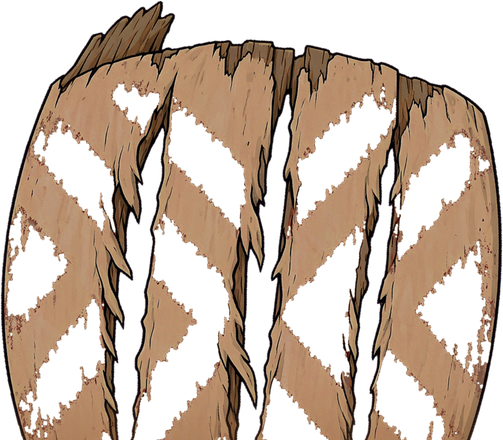
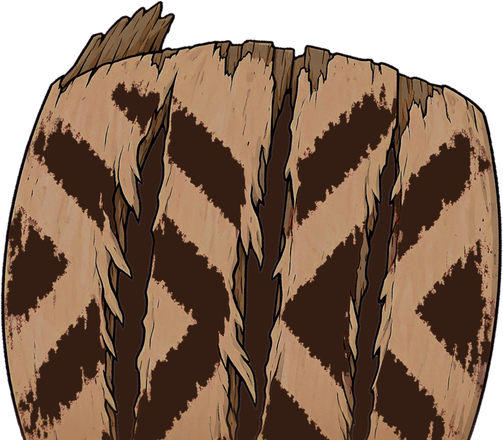
Klauwenschild weer massief: het weggeknipte motief dichtgeverfd
In de bron was het donkere X-motief van het klauwenschild bij het
vrijstaand maken met de achtergrond weggeknipt, zodat je in het spel de
grond door het schild zag. tools/schilden.py verft nu wat binnen de omtrek
ligt en toch leeg is donkerbruin, onder het plaatje, zodat de rafelranden
van het motief blijven staan. De onderrand wordt eerst dichtgezet, anders
loopt de vulling er onderlangs in.

Claude-Session: https://claude.ai/code/session_01ENZubEVdWG6zZtv7T5metY

diff --git a/tools/schilden.py b/tools/schilden.py
@@ -6,6 +6,12 @@ zie schilden.json in de zip). Op een groot scherm is dat hooguit zo'n 250 px, du
 bronrijen is ruim. De ingegraven versies (scheef, onderrand = grondlijn) gaan naar
 design/schilden/; de hele, rechte versies laten we voorlopig in de zip.
 
+Bij het klauwenschild is het donkere X-motief bij het vrijstaand maken met de
+achtergrond weggeknipt: die vlakken zijn doorzichtig en dan zie je de grond door het
+schild. Wat binnen de omtrek ligt en toch leeg is, krijgt daarom donkerbruine verf
+(VERF). De ruimte tussen de klauwscheuren is aan de bovenrand ingesloten en wordt dus
+ook donker; op spelmaat valt dat niet op.
+
 Vereist Pillow: pip install pillow
 """
 import io
@@ -14,7 +20,7 @@ import sys
 import zipfile
 
 try:
-    from PIL import Image
+    from PIL import Image, ImageDraw, ImageFilter
 except ImportError:
     sys.exit('Pillow ontbreekt: pip install pillow')
 
@@ -23,11 +29,33 @@ ZIP = os.path.join(ROOT, 'schilden_hires.zip')
 UIT = os.path.join(ROOT, 'design', 'schilden')
 HOOG = 440
 NAMEN = ['schild_1_gespleten', 'schild_2_klauwen', 'schild_3_verbrand']
+VULLEN = ['schild_2_klauwen']
+VERF = (52, 30, 20, 255)
+
+
+def vul_motief(im):
+    """Ingesloten lege vlakken binnen het schild dichtverven, onder het plaatje."""
+    w, h = im.size
+    vast = im.getchannel('A').point(lambda v: 255 if v > 100 else 0)
+    # de onderrand is recht afgesneden: dicht tussen de buitenste vaste pixels,
+    # anders loopt de vulling van buiten onderlangs het schild in
+    xs = [x for x in range(w) if vast.getpixel((x, h - 1))]
+    if xs:
+        ImageDraw.Draw(vast).line([(xs[0], h - 1), (xs[-1], h - 1)], fill=255)
+    ImageDraw.floodfill(vast, (0, 0), 128)                 # alles wat met buiten verbonden is
+    motief = vast.point(lambda v: 255 if v == 0 else 0)    # leeg en ingesloten
+    motief = motief.filter(ImageFilter.MaxFilter(5))       # tot onder de rafelige randen
+    uit = Image.new('RGBA', (w, h), (0, 0, 0, 0))
+    uit.paste(VERF, (0, 0), motief)
+    uit.alpha_composite(im)
+    return uit
 
 os.makedirs(UIT, exist_ok=True)
 with zipfile.ZipFile(ZIP) as z:
     for n in NAMEN:
         im = Image.open(io.BytesIO(z.read('schilden_hires/' + n + '.png'))).convert('RGBA')
+        if n in VULLEN:
+            im = vul_motief(im)
         w = round(im.width * HOOG / im.height)
         im.resize((w, HOOG), Image.LANCZOS).save(os.path.join(UIT, n + '.png'), optimize=True)
         print(n, w, 'x', HOOG)
